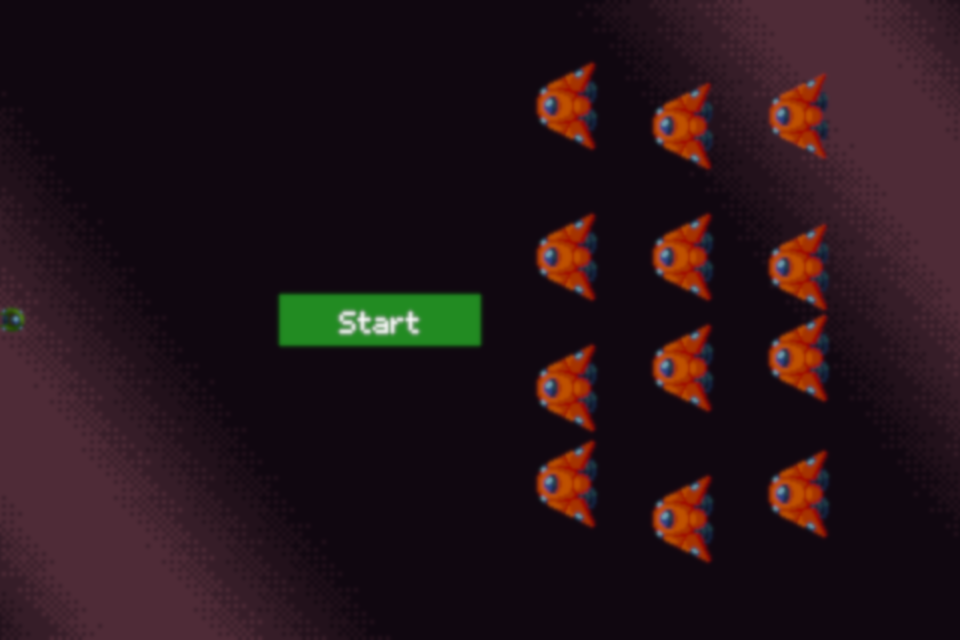
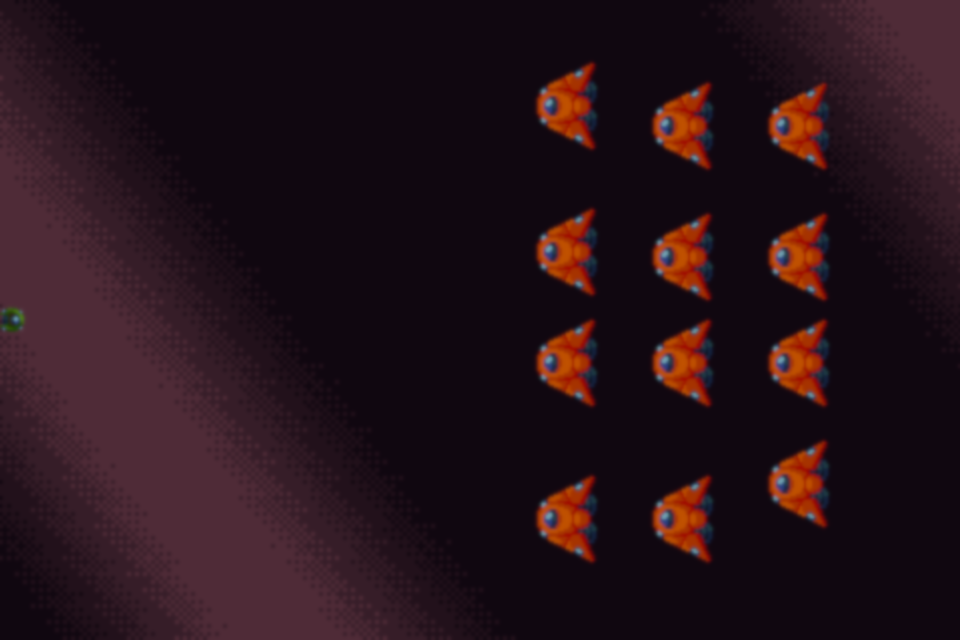
updated main menu and added mute toggle and quit button

diff --git a/alien_invasion.py b/alien_invasion.py
@@ -14,8 +14,6 @@ class AlienInvasion:
     def __init__(self): 
         """Initialize the game and create game resources."""
         pygame.init()
-        pygame.mixer.music.load("audio/menu.wav")
-        pygame.mixer.music.play(-1)
         pygame.joystick.init()
         pygame.display.set_caption("Alien Invasion")
         self._check_gamepad()
@@ -28,10 +26,14 @@ class AlienInvasion:
         self.stats = GameStats(self)
         self.ship = Ship(self)
         self.combat_music = False
+        self.menu_music = False
         self.bullets = pygame.sprite.Group()
         self.aliens = pygame.sprite.Group()
         self._create_fleet()
-        self.play_button = Button(self, "Start")
+        self.play_button = Button(self, "Start", 100, 50)
+        self.mute_button = Button(self, "Music", 100, -50)
+        self.exit_button = Button(self, "Quit", 100, -150)
+
     
     def _check_gamepad(self):
         """Checks if a gamepad is connected and assigns it to the first one if it is."""
@@ -44,6 +46,7 @@ class AlienInvasion:
         """Start the main loop for the game."""
         while True: 
             self._check_events()
+            self._play_menu_music()
             if self.stats.game_active: 
                 self._play_combat_music()
                 self.ship.update()
@@ -67,6 +70,8 @@ class AlienInvasion:
             elif event.type == pygame.MOUSEBUTTONDOWN:
                 mouse_pos = pygame.mouse.get_pos()
                 self._check_play_button(mouse_pos)
+                self._check_mute_button(mouse_pos)
+                self._check_exit_button(mouse_pos)
 
     def _check_play_button(self, mouse_pos):
         """ Start a new game when the player clicks Play"""
@@ -74,6 +79,20 @@ class AlienInvasion:
         if button_clicked and not self.stats.game_active:
             self._clear_state()
             self.stats.game_active = True
+
+    def _check_mute_button(self, mouse_pos):
+        """ Toggles music when the player clicks 'Toggle Music'"""
+        button_clicked = self.mute_button.rect.collidepoint(mouse_pos)
+        if button_clicked: 
+            self.settings.play_music = not self.settings.play_music 
+            print(self.settings.play_music)
+
+    def _check_exit_button(self, mouse_pos):
+        """ Exits the game from the main menu once clicked."""
+        button_clicked = self.exit_button.rect.collidepoint(mouse_pos)
+        if button_clicked: 
+            sys.exit()
+
 
     def _clear_state(self):
         """ Resets the stats for the game on play/restart."""
@@ -85,12 +104,27 @@ class AlienInvasion:
         self._create_fleet()
         self.ship.position_ship()
 
+    def _play_menu_music(self):
+        if not self.menu_music and not self.combat_music and self.settings.play_music:
+            pygame.mixer.music.load("audio/menu.wav")
+            pygame.mixer.music.play(-1)
+            self.menu_music = True
+        elif not self.settings.play_music:
+            pygame.mixer.music.stop()
+            self.menu_music = False
+        else: 
+            pass
 
     def _play_combat_music(self):
-        if not self.combat_music:
+        """If the game is running, plays battle music."""
+        if not self.combat_music and self.settings.play_music:
             pygame.mixer.music.load("audio/battle.wav")
             pygame.mixer.music.play(-1)
             self.combat_music = True
+            self.menu_music = False
+        elif not self.settings.play_music:
+            pygame.mixer.music.stop()
+            self.combat_music = False
         else:
             pass
 
@@ -140,6 +174,8 @@ class AlienInvasion:
         if not self.stats.game_active:
             self.screen.blit(self.menu_image, (0, 0)) 
             self.play_button.draw_button()
+            self.mute_button.draw_button()
+            self.exit_button.draw_button()
         pygame.display.flip()
     
     def _scroll_background(self):
@@ -271,7 +307,7 @@ class AlienInvasion:
             sleep(0.25)
         else: 
             self.stats.game_active = False
-            pygame.mixer.music.fadeout(100)
+            pygame.mixer.music.fadeout(500)
             self.combat_music = False
             pygame.mouse.set_visible(True)
 if __name__ == '__main__':

diff --git a/button.py b/button.py
@@ -2,7 +2,7 @@ import pygame.font
 
 class Button:
 
-    def __init__(self, ai_game, msg):
+    def __init__(self, ai_game, msg, x_offset = 0, y_offset = 0):
         """Initialize button attributes."""
         self.screen = ai_game.screen
         self.screen_rect = self.screen.get_rect()
@@ -16,7 +16,7 @@ class Button:
 
         # Build the button's rect object and center it.
         self.rect = pygame.Rect(0,0, self.width, self.height)
-        self.rect.center = self.screen_rect.centerx - 100, self.screen_rect.centery
+        self.rect.center = self.screen_rect.centerx - x_offset, self.screen_rect.centery - y_offset
 
         self._prep_msg(msg)
 
